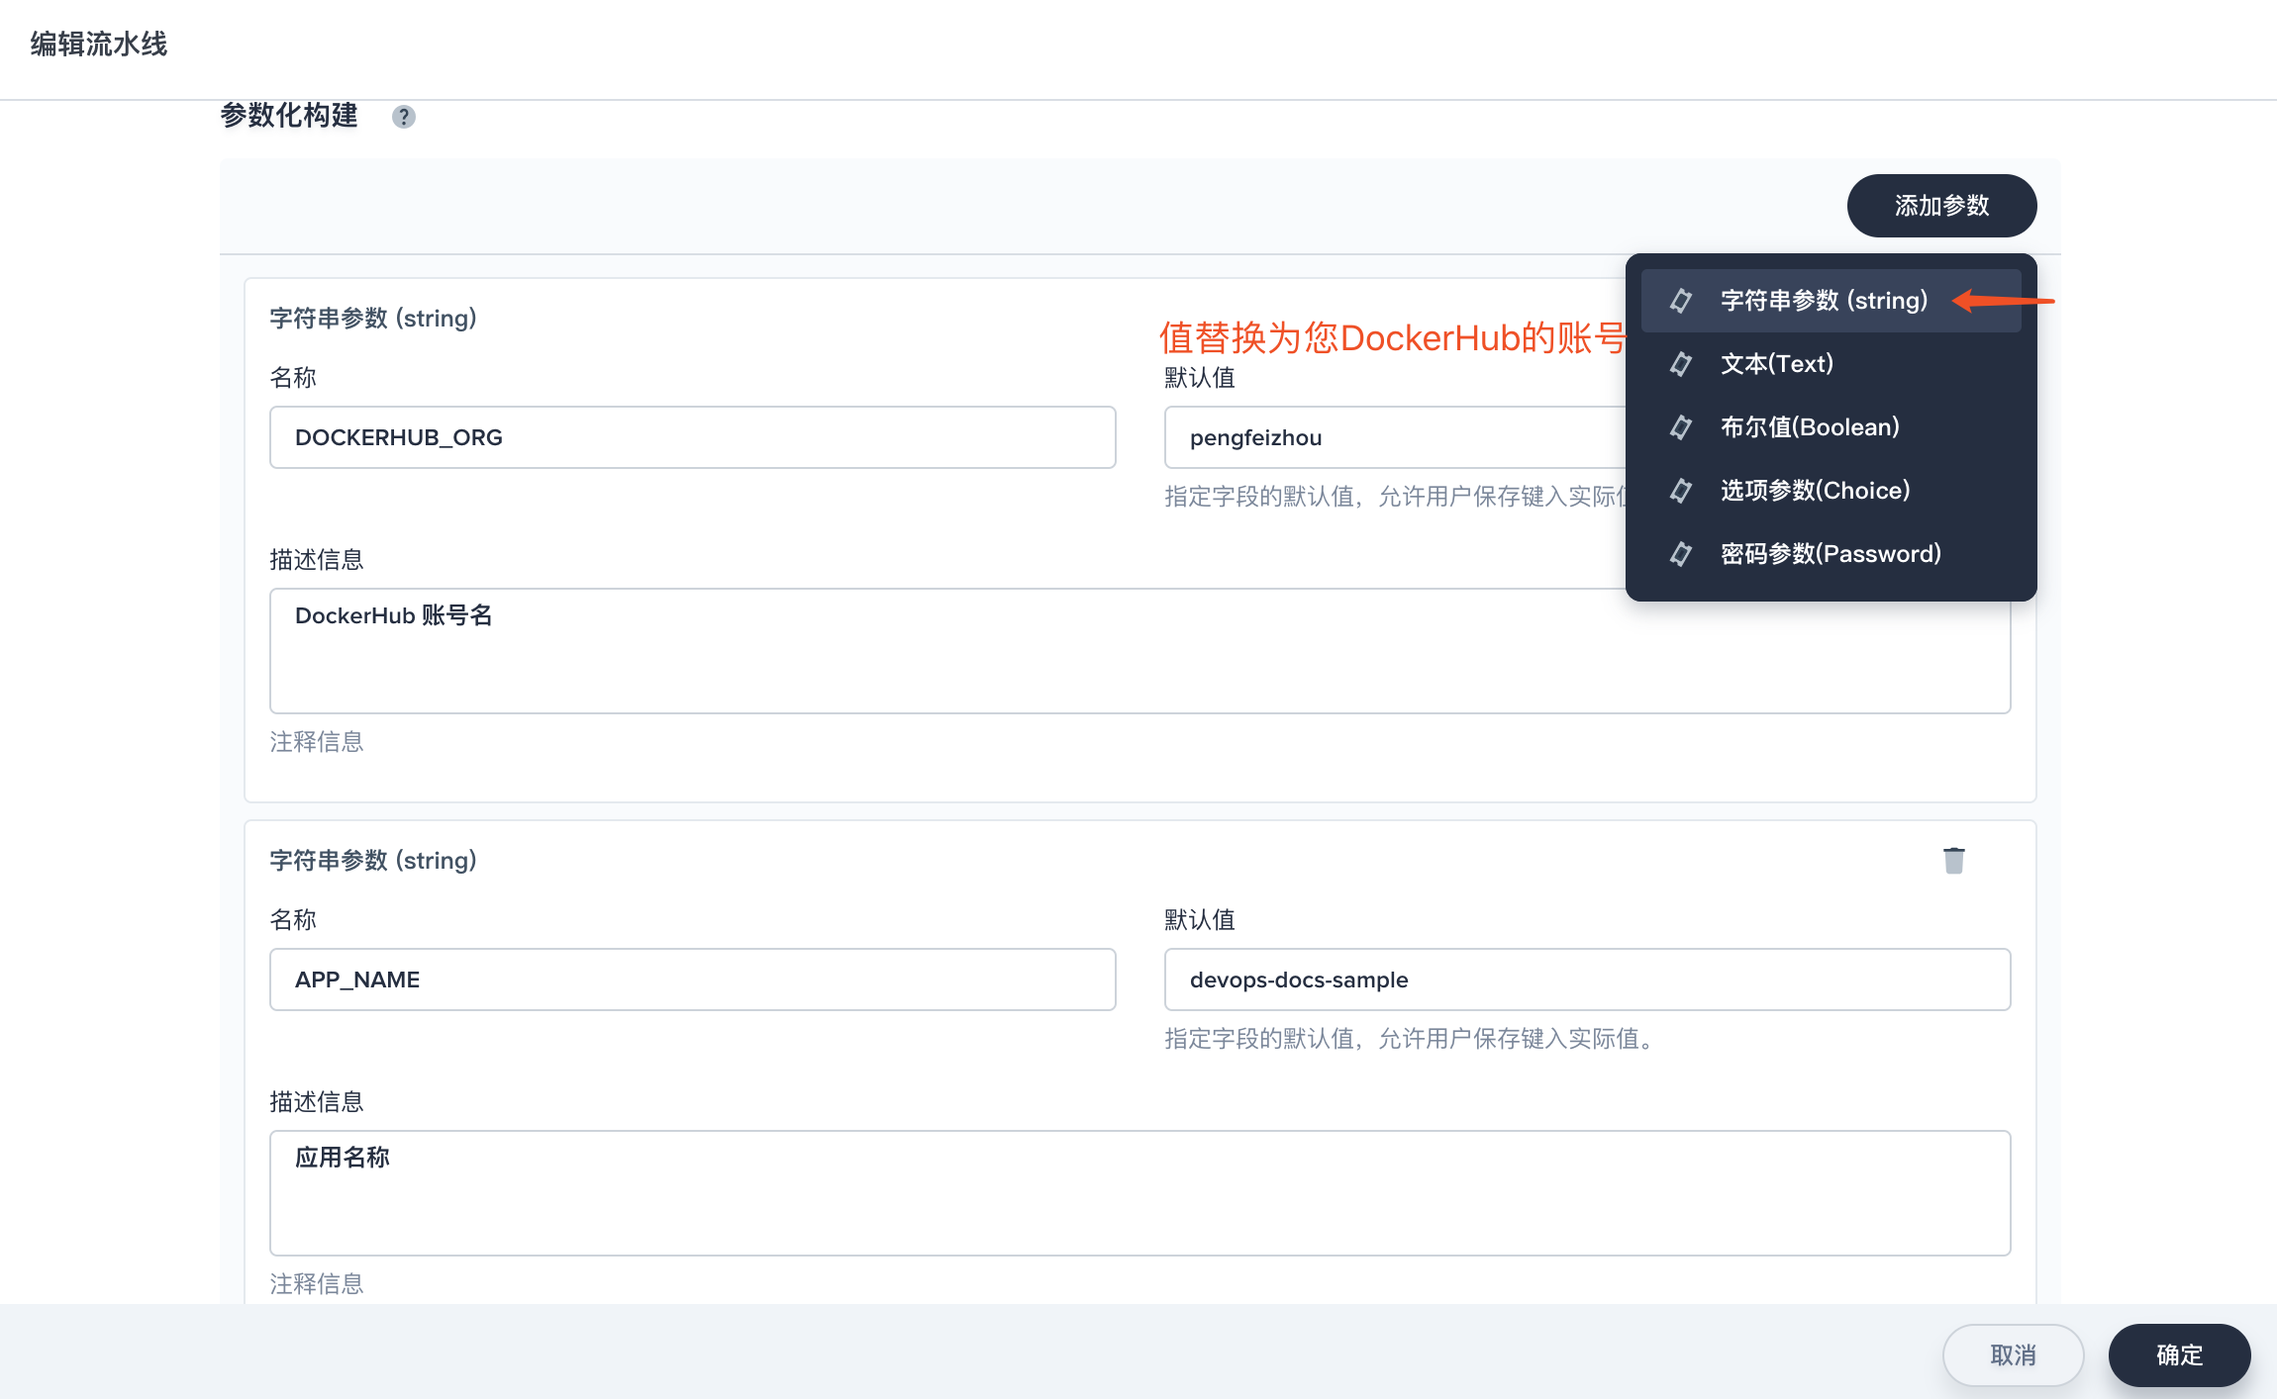
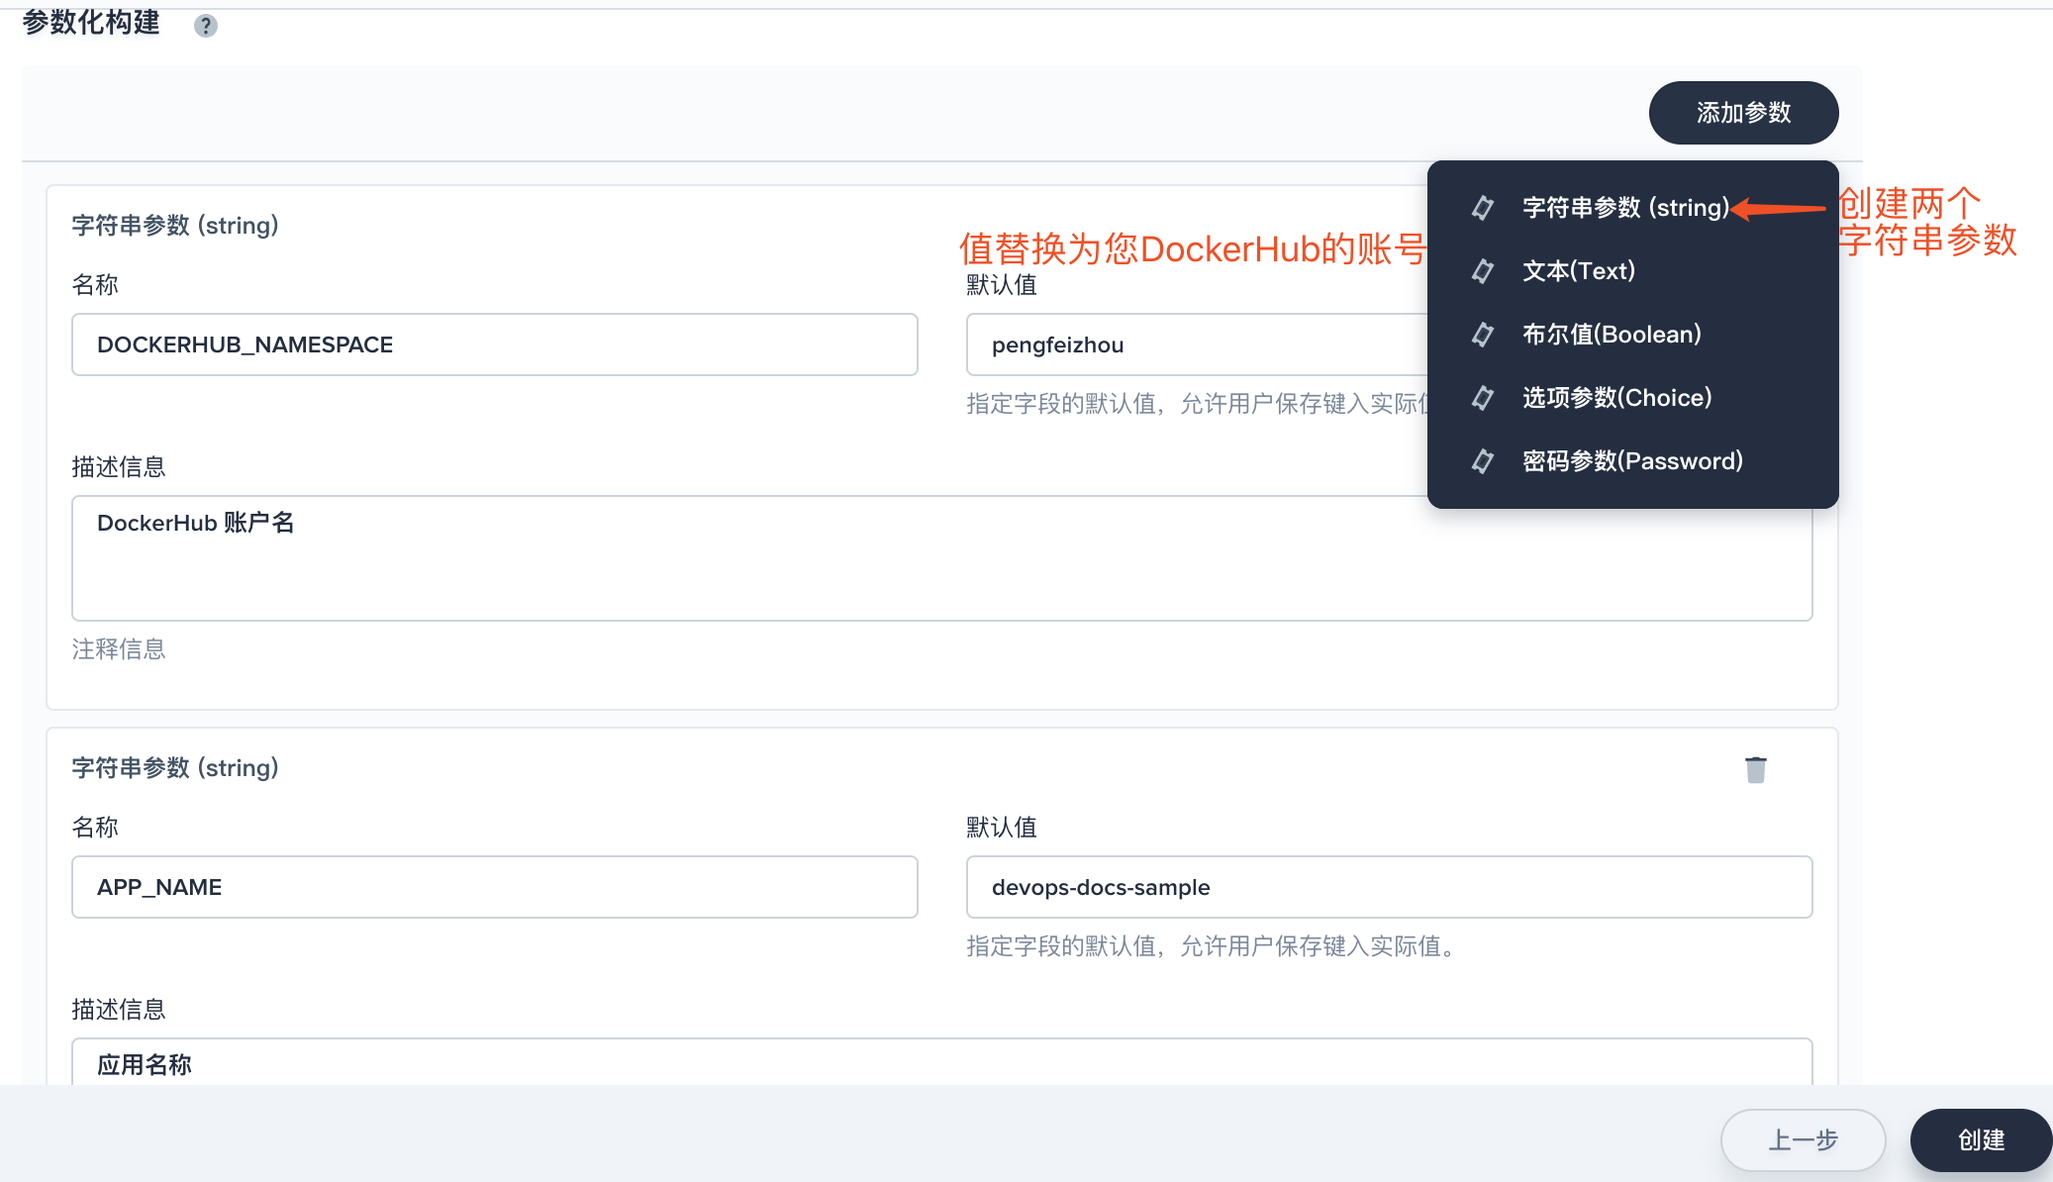
update ci/cd quick start

diff --git a/content/advanced-v1.0.0/zh-CN/quick-start/jenkinsfile-out-of-scm.md b/content/advanced-v1.0.0/zh-CN/quick-start/jenkinsfile-out-of-scm.md
@@ -2,9 +2,9 @@
 title: "示例六 - Jenkinsfile out of SCM" 
 ---
 
-示例一通过代码仓库中的 Jenkinsfile 构建流水线，需要对声明式的 Jenkinsfile 有一定的基础。而 Jenkinsfile out of SCM 不同于 [Jenkinsfile in SCM](../jenkinsfile-in-scm)，其代码仓库中可以无需 Jenkinsfile，支持用户在控制台通过可视化的方式构建流水线或编辑 Jenkinsfile 生成流水线，用户操作界面更友好。
+示例五通过代码仓库中的 Jenkinsfile 构建流水线，需要对声明式的 Jenkinsfile 有一定的基础。而 Jenkinsfile out of SCM 不同于 [Jenkinsfile in SCM](../jenkinsfile-in-scm)，其代码仓库中可以无需 Jenkinsfile，支持用户在控制台通过可视化的方式构建流水线或编辑 Jenkinsfile 生成流水线，用户操作界面更友好。
 
-本示例演示基于 [示例一 - Jenkinsfile in SCM](../jenkinsfile-in-scm)，通过可视化构建流水线 (包含示例一的前六个阶段)，最终将一个文档网站部署到 KubeSphere 集群中的开发环境且能够通过公网访问。若熟悉了示例一的流程后，对于示例二的手动构建步骤就很好理解了。为方便演示，本示例仍然以 GitHub 代码仓库 [devops-docs-sample](https://github.com/kubesphere/devops-docs-sample) 为例，可预先将其 Fork 至您的代码仓库中。
+本示例演示基于 [示例五 - Jenkinsfile in SCM](../jenkinsfile-in-scm)，通过可视化构建流水线 (包含示例五的前六个阶段)，最终将一个文档网站部署到 KubeSphere 集群中的开发环境且能够通过公网访问，这里所谓的开发环境在底层的 Kubernetes 是以项目 (Namespace) 为单位进行资源隔离的。若熟悉了示例五的流程后，对于示例六的手动构建步骤就很好理解了。为方便演示，本示例仍然以 GitHub 代码仓库 [devops-docs-sample](https://github.com/kubesphere/devops-docs-sample) 为例，可预先将其 Fork 至您的代码仓库中。
 
 构建可视化流水线共包含以下 6 个阶段 (stage)，先通过一个流程图简单说明一下整个 pipeline 的工作流：
 
@@ -21,8 +21,9 @@ title: "示例六 - Jenkinsfile out of SCM"
 ## 前提条件
 
 - 已有 [DockerHub](http://www.dockerhub.com/) 的账号。
-- 本示例的代码仓库以 GitHub 为例，确保已有 [GitHub](https://github.com/) 账号，且已 Fork 了示例代码仓库。
+- 本示例的代码仓库以 GitHub 为例，确保已有 [GitHub](https://github.com/) 账号，且已 Fork 了 [示例代码仓库](https://github.com/kubesphere/devops-docs-sample)。
 - 已创建了 DevOps 工程，若还未创建请参考 [创建 DevOps 工程](../../devops/devops-project/#创建-devops-工程)。
+- 熟悉 Git 分支管理和版本控制相关的基础知识，详见 [Git 官方文档](https://git-scm.com/book/zh/v2)。 
 
 ## 演示视频
 
@@ -30,13 +31,35 @@ title: "示例六 - Jenkinsfile out of SCM"
   <source type="video/mp4" src="https://kubesphere-docs.pek3b.qingstor.com/video1/jenkinsfile-out-of-scm.mp4">
 </video>
 
+## 创建项目
+
+CI/CD 流水线会根据文档网站的 [yaml 模板文件](https://github.com/kubesphere/devops-docs-sample/tree/master/deploy/no-branch-dev)，最终将文档网站部署到开发环境 `kubesphere-system-dev`，它对应的是 KubeSphere 中的一个项目 (Namespace)，该项目需要预先在控制台创建。注意，若您已在 [示例五](../jenkinsfile-in-scm) 创建过该项目，则无需再次创建，可跳过创建项目步骤。
+
+### 第一步：填写项目信息
+
+登录 KubeSphere，在已创建的企业空间下，点击 **项目管理 → 创建项目**，填写项目的基本信息。
+
+- 名称：固定为 `kubesphere-system-dev`，若需要修改项目名称则需在 [yaml 模板文件](https://github.com/kubesphere/devops-docs-sample/tree/master/deploy) 中修改 namespace
+- 别名：可自定义，比如 **开发环境**
+- 描述信息：可简单介绍该项目，方便用户进一步了解
+
+![创建 Dev 项目](/create-dev-namespace.png)
+
+### 第二步：高级设置
+
+本示例暂无资源请求和限制，因此高级设置中无需修改默认值，点击 **创建**，项目可创建成功。
+
+![项目创建成功](/dev-namespace-list.png)
+
+> 说明：当 CI/CD 流水线后续执行成功后，在 `kubesphere-system-dev` 和 `kubesphere-system` 项目中将看到流水线创建的 **部署 (Deployment)** 和 **服务 (Service)**。
+
 ## 创建凭证
 
-本示例创建流水线时需要 DockerHub 和 Kubernetes (创建 KubeConfig 用于接入正在运行的 Kubernetes 集群) 的 2 个凭证 (credentials) ，先依次创建这 2 个凭证。
+本示例创建流水线时需要访问 DockerHub 和 Kubernetes (创建 KubeConfig 用于接入正在运行的 Kubernetes 集群) 的 2 个凭证 (credentials) ，先依次创建这 2 个凭证。
 
 > 注意：
-> - 若示例二与示例一在同一 DevOps 工程，且示例一已创建了这两个凭证，则无需再次创建，因为同一 DevOps 工程下的凭证对流水线是共用的。
-> - 若代码仓库属于私有仓库如 Gitlab，可能还需要创建这类账户的凭证。
+> - 若示例六与示例五在同一 DevOps 工程，且示例五已创建了这两个凭证，则无需再次创建，可跳过创建凭证步骤，因为同一 DevOps 工程下的凭证对多个流水线是共用的。
+> - 若代码仓库属于私有仓库如 Gitlab 或 SVN，可能还需要创建这类账户的凭证。
 
 ### 第一步：创建 DockerHub 凭证
 
@@ -92,12 +115,14 @@ title: "示例六 - Jenkinsfile out of SCM"
 
 |名称|默认值|描述信息|
 |---|---|---|
-|DOCKERHUB_ORG|您的 DockerHub 账号|DockerHub 账号|
-|APP_NAME|devops-docs-sample|应用名称|
+|DOCKERHUB_NAMESPACE|填写您的 DockerHub 账号|DockerHub 账号|
+|APP_NAME|填写 devops-docs-sample|应用名称|
 
 ![高级设置](/pipeline-advanced-setting.png)
 
 3、设置 **构建触发器**，此处勾选 **定时构建**，日程表 (cron) 填写 `H H * * *`，表示每天构建一次 (不限具体时刻)。这里的定时构建是提供类似 Linux cron 的功能来定期执行此流水线，定时构建的语法以下作一个简单释义，语法详见 [Jenkins 官方文档](https://jenkins.io/doc/book/pipeline/syntax/#cron-syntax)。
+
+![定时构建](/advanced-setting-schedule.png)
 
 > 定时构建语法：
 > `* * * * *`
@@ -120,7 +145,7 @@ title: "示例六 - Jenkinsfile out of SCM"
 
 1、可视化编辑页面，分为结构编辑区域和内容编辑区域。通过构建流水线的每个阶段 (stage) 和步骤 (step) 即可自动生成 Jenkinsfile，用户无需学习 Jenkinsfile 的语法，非常方便。当然，平台也支持手动编辑 Jenkinsfile 的方式，流水线分为 “声明式流水线” 和 “脚本化流水线”，可视化编辑支持声明式流水线。Pipeline 语法参见 [Jenkins 官方文档](https://jenkins.io/doc/book/pipeline/syntax/)。
 
-如下，代理 (Agent) 的类型选择 `node`，label 填写 nodejs。
+如下，代理 (Agent) Agent 部分指定整个 Pipeline 或特定阶段将在 Jenkins 环境中执行的位置， 具体取决于该 agent 部分的放置位置。此处代理的类型选择 `node`，label 填写 `nodejs`。
 
 ![代理设置](/pipeline_agent.png)
 
@@ -160,7 +185,7 @@ title: "示例六 - Jenkinsfile out of SCM"
 2、点击 **添加步骤** 选择 `container`，名称为 `nodejs`；然后点击 **添加嵌套步骤**，选择 `shell`，shell 命令填写如下一行 docker 命令：
 
 ```shell
-docker build -t docker.io/$DOCKERHUB_ORG/$APP_NAME:SNAPSHOT-$BUILD_NUMBER .
+docker build -t docker.io/$DOCKERHUB_NAMESPACE/$APP_NAME:SNAPSHOT-$BUILD_NUMBER .
 
 ```
 
@@ -179,7 +204,7 @@ docker build -t docker.io/$DOCKERHUB_ORG/$APP_NAME:SNAPSHOT-$BUILD_NUMBER .
 ```bash
 echo "$DOCKER_PASSWORD" | docker login -u "$DOCKER_USERNAME" --password-stdin
 
-docker push docker.io/$DOCKERHUB_ORG/$APP_NAME:SNAPSHOT-$BUILD_NUMBER
+docker push docker.io/$DOCKERHUB_NAMESPACE/$APP_NAME:SNAPSHOT-$BUILD_NUMBER
 ```
 ![推送 snapshot](/build-push-snapshot.png)
 
@@ -235,17 +260,17 @@ docker push docker.io/$DOCKERHUB_ORG/$APP_NAME:SNAPSHOT-$BUILD_NUMBER
 
 ## 验证运行结果
 
-若流水线的每一步都能执行成功，那么流水线最终 build 的 Docker 镜像也将被成功地 push 到 DockerHub 中，我们在 Jenkinsfile 中已经配置过 Docker 镜像仓库，登录 DockerHub 查看镜像的 push 结果，可以看到 tag 为 snapshot、TAG_NAME(v0.0.1)、latest 的镜像已经被 push 到 DockerHub，并且在 GitHub 中也生成了一个新的 tag，最终以 deployment 和 service 部署到 KubeSphere 的 dev 和 production 环境中。若需要在外网访问，可能需要进行端口转发并开放防火墙，即可访问成功部署的文档网站示例的首页。
+若流水线的每一步都能执行成功，那么流水线最终 build 的 Docker 镜像也将被成功地 push 到 DockerHub 中，我们在 Jenkinsfile 中已经配置过 Docker 镜像仓库，登录 DockerHub 查看镜像的 push 结果，可以看到 tag 为 snapshot、TAG_NAME(v0.0.1)、latest 的镜像已经被 push 到 DockerHub，并且在 GitHub 中也生成了一个新的 tag，最终以 deployment 和 service 部署到 KubeSphere 的开发环境中。
 
-|环境|访问地址| 所在项目 (Namespace) | 部署 (Deployment) |
+|环境|访问地址| 所在项目 (Namespace) | 部署 (Deployment) | 服务 (Service) |
 |---|---|---|---|
-|Dev| 公网IP (EIP) + 30880| kubesphere-system-dev| ks-docs-sample-dev|
+|Dev| 公网IP (EIP) + 30880| kubesphere-system-dev| ks-docs-sample-dev| ks-docs-sample-dev|
 
 查看推送到 DockerHub 的镜像，可以看到 `devops-docs-sample` 就是 **APP_NAME** 的值，而 **Tag Name** 则是 `SNAPSHOT-$BUILD_NUMBER` 的值 (`$BUILD_NUMBER` 对应活动的运行序号 **2**)。
   
 ![查看镜像](/deveops-dockerhub.png)
 
-访问部署到 KubeSphere 的 Dev 环境的服务。
+若需要在外网访问，可能需要进行端口转发并开放防火墙，即可访问成功部署的文档网站示例的首页。如下在浏览器访问部署到 KubeSphere 的开发环境的服务： `http://127.0.0.1:30880/`。
 
 **Dev 环境**
 ![](/docs-home-dev-preview.png)

diff --git a/content/advanced-v1.0.0/zh-CN/quick-start/jenkinsfile-in-scm.md b/content/advanced-v1.0.0/zh-CN/quick-start/jenkinsfile-in-scm.md
@@ -4,7 +4,7 @@ title: "示例五 - Jenkinsfile in SCM"
 
 Jenkinsfile in SCM 意为将 Jenkinsfile 文件本身作为源代码管理（Source Control Management）的一部分，因此可使用 `git clone` 或者其他类似的命令都能够获取此 Jenkinsfile，根据该文件内的流水线配置信息快速构建工程内的 CI/CD 功能模块，比如阶段 (Stage)，步骤 (Step) 和任务 (Job)。因此，在 GitHub 的代码仓库中应包含 Jenkinsfile。
 
-本示例演示如何通过 GitHub 仓库中的 Jenkinsfile 来创建流水线，流水线共包括 8 个阶段，最终将一个文档网站部署到 KubeSphere 集群中的开发环境和产品环境且能够通过公网访问，那么这个流水线需要完成哪些流程呢？先通过一个流程图简单说明一下整个 pipeline 的工作流：
+本示例演示如何通过 GitHub 仓库中的 Jenkinsfile 来创建流水线，流水线共包括 8 个阶段，最终将一个文档网站部署到 KubeSphere 集群中的开发环境 (Dev) 和产品环境 (Production) 且能够通过公网访问，这两个环境在底层的 Kubernetes 是以项目 (Namespace) 为单位进行资源隔离的。那么这个流水线需要完成哪些流程呢？先通过一个流程图简单说明一下整个 pipeline 的工作流：
 
 ![流程图](/cicd-pipeline-01.svg)
 
@@ -24,7 +24,7 @@ Jenkinsfile in SCM 意为将 Jenkinsfile 文件本身作为源代码管理（Sou
 
 - 本示例的代码仓库以 GitHub 和 DockerHub 为例，参考时前确保已创建了 [GitHub](https://github.com/) 和 [DockerHub](http://www.dockerhub.com/) 账号。
 - 已创建了 DevOps 工程，若还未创建请参考 [创建 DevOps 工程](../../devops/devops-project/#创建-devops-工程)。
-- 熟悉 Git 分支管理和版本控制相关的基础知识，参考 [Git 官方文档](https://git-scm.com/book/zh/v2)
+- 熟悉 Git 分支管理和版本控制相关的基础知识，详见 [Git 官方文档](https://git-scm.com/book/zh/v2)。
 
 ## 演示视频
 
@@ -42,7 +42,7 @@ Jenkinsfile in SCM 意为将 Jenkinsfile 文件本身作为源代码管理（Sou
 
 ### 第二步：修改 Jenkinsfile
 
-Fork 至您个人的 GitHub 后，在 **根目录** 进入 **Jenkinsfile**， 在  GitHub UI 点击编辑图标，需要修改如下参数 (parameters) 和环境变量 (environment)，完成后提交更新到当前的 master 分支：
+Fork 至您个人的 GitHub 后，在 **根目录** 进入 **Jenkinsfile**，在  GitHub UI 点击编辑图标，需要修改如下参数 (parameters) 和环境变量 (environment)，完成后提交更新到当前的 master 分支：
 
 ![修改 Jenkinsfile](/modify-jenkinsfile.png)
 ![提交更新](/commit-jenkinsfile.png)
@@ -89,9 +89,11 @@ CI/CD 流水线会根据文档网站项目的 [yaml 模板文件](https://github
 
 ### 第二步：高级设置
 
-本示例暂无资源请求和限制，因此高级设置中无需修改默认值，点击 **创建**。当 CI/CD 流水线后续执行成功后，在 `kubesphere-system-dev` 和 `kubesphere-system` 项目中将看到流水线创建的 **部署 (Deployment)** 和 **服务 (Service)**。
+本示例暂无资源请求和限制，因此高级设置中无需修改默认值，点击 **创建**，项目可创建成功。
 
 ![项目创建成功](/dev-namespace-list.png)
+
+> 说明：当 CI/CD 流水线后续执行成功后，在 `kubesphere-system-dev` 和 `kubesphere-system` 项目中将看到流水线创建的 **部署 (Deployment)** 和 **服务 (Service)**。
 
 ## 创建凭证
 
@@ -218,7 +220,7 @@ CI/CD 流水线会根据文档网站项目的 [yaml 模板文件](https://github
 
 ## 验证运行结果
 
-若流水线的每一步都能执行成功，那么流水线最终 build 的 Docker 镜像也将被成功地 push 到 DockerHub 中，我们在 Jenkinsfile 中已经配置过 DockerHub，登录 DockerHub 查看镜像的 push 结果，可以看到 tag 为 snapshot、TAG_NAME(v0.0.1)、latest 的镜像已经被 push 到 DockerHub，并且在 GitHub 中也生成了一个新的 tag。文档网站最终将以 deployment 和 service 分别部署到 KubeSphere 的 kubesphere-system-dev 和 kubesphere-system 项目环境中，可通过 KubeSphere 查看这两个项目中的部署和服务的状态，正常情况下，部署的状态应该显示 **运行中**。
+若流水线的每一步都能执行成功，那么流水线最终 build 的 Docker 镜像也将被成功地 push 到 DockerHub 中，我们在 Jenkinsfile 中已经配置过 DockerHub，登录 DockerHub 查看镜像的 push 结果，可以看到 tag 为 snapshot、TAG_NAME(v0.0.1)、latest 的镜像已经被 push 到 DockerHub，并且在 GitHub 中也生成了一个新的 tag 和 release。文档网站最终将以 deployment 和 service 分别部署到 KubeSphere 的 `kubesphere-system-dev` 和 `kubesphere-system` 项目环境中，可通过 KubeSphere 查看这两个项目中的部署和服务的状态，正常情况下，部署的状态应该显示 **运行中**。
 
 ![验证运行结果](/verify-docs-deployment.png)
 
@@ -231,12 +233,22 @@ CI/CD 流水线会根据文档网站项目的 [yaml 模板文件](https://github
   
 ![查看 DockerHub](/deveops-dockerhub.png)
 
-若需要在外网访问，可能需要进行端口转发并开放防火墙，即可访问成功部署的文档网站示例的首页。如下访问部署到 KubeSphere 的 Dev 和 Production 环境的服务。
+查看在 GitHub 中生成的一个 `v0.0.1` 的 tag 和 release。
+ß
+![查看 release](/verify-github-release.png)
+
+若需要在外网访问，可能需要进行端口转发并开放防火墙，即可访问成功部署的文档网站示例的首页。如下在浏览器访问部署到 KubeSphere 的 Dev 和 Production 环境的服务。
 
 **Dev 环境**
+
+如下访问 `http://127.0.0.1:30880/`。
+
 ![](/docs-home-dev-preview.png)
 
 **Prodcution 环境**
+
+如下访问 `http://127.0.0.1:30980/`。
+
 ![](/docs-home-production-preview.png)
 
 
